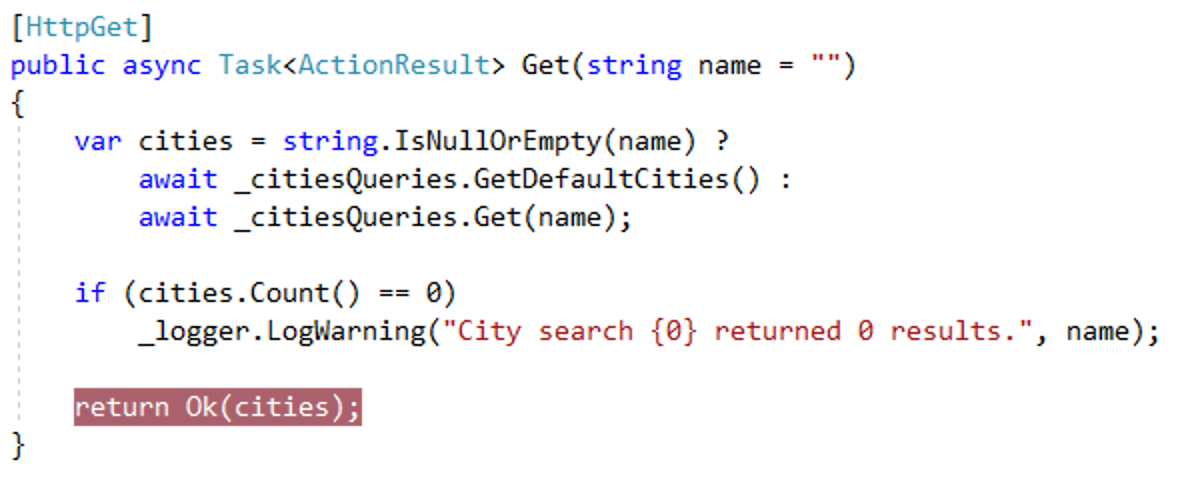
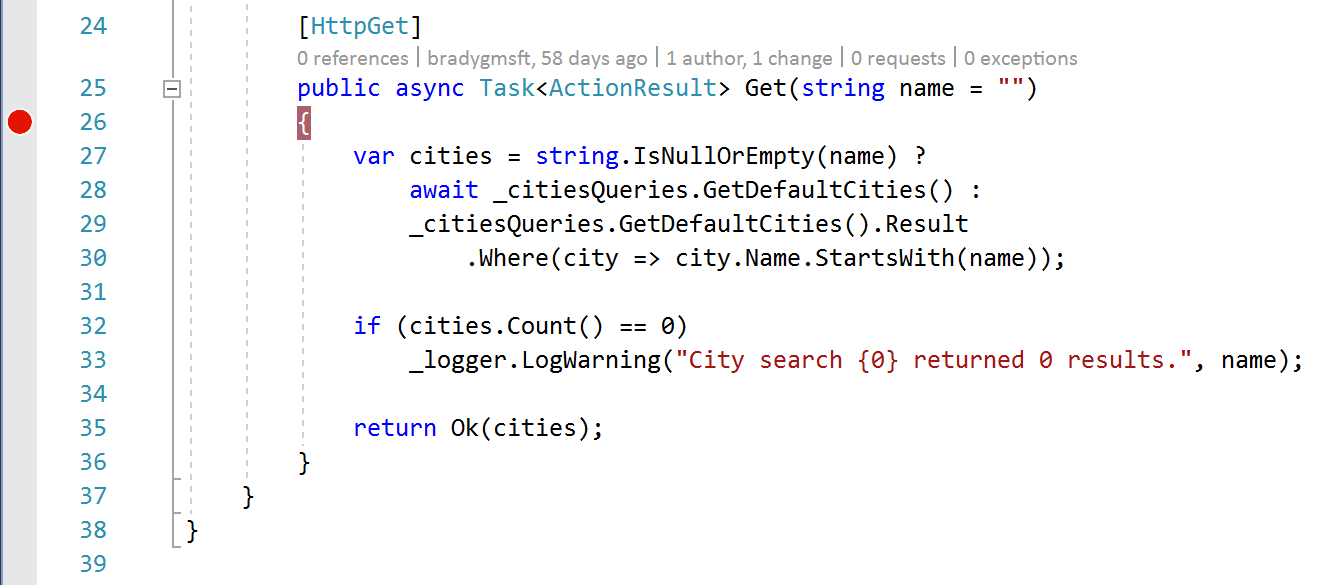
update to lab flow

diff --git a/README.md b/README.md
@@ -35,12 +35,15 @@ One of your teammates gave you a tip that the code that runs the city search fea
 
     ![Clone repository](clone.png)
 
-1. Double click on the cloned repository.
+1. Click **Solutions and Folders**.
 
-1. Under Solutions, double click on the `SmartHotel.Services.Hotels.sln` solution.
-    ![Hotels solution](hotels-solution.png)
-    
-### Fix the Hotels microservice
+1. Click on the `SmartHotel.Services.Hotels.sln` solution.
+
+### Set up debugging in Azure Dev Spaces
+
+You can see that SmartHotel360 is a large application. In order to track down this bug, you might think you'd need to set up all the databases, services, all of it, or at least get a copy of the AKS cluster on your machine or somewhere else so you won't impact your teammates, who might need to utilize the same databases and services for their own testing. This could take hours, or days, to set up and get working properly.
+
+Luckily, that's exactly what **Azure Dev Spaces** can do for you. Without setting up anything, you can select Dev Spaces to use when you want to debug your code. Then, a copy of your service is deployed into AKS, and commands will be routed to that copy of the service. That way, you can debug my code changes **in your own space** without impacting your teammates, all of whom may have code running in their own Dev Spaces.
 
 1. In Solution Explorer, Locate the **SmartHotel.Services.Hotels** project.
 
@@ -48,39 +51,7 @@ One of your teammates gave you a tip that the code that runs the city search fea
 
     ![CitiesContoller file](hotels-project.png)
 
-1. Now you can take a look at the `Get` method to see if you can tell what's wrong. Looks like the previous developer is making two calls to the `GetDefaultCities` method here. You can right click on the method name and then click **Go to Definition** to see what that method's doing.
-
-    ![Go to definition](13-get-method.png)
-
-1. Looks like the `GetDefaultCities` method returns a static list. The list doesn't contain Seattle, so that explains why it isn't showing up.
-
-    ![GetDefaultCities method code](get-default-cities.png)
-
-1. Scroll up to show the `Get` method. You can see that this is the one that actually uses Entity Framework to query the database. 
-    ![Get method code](get-method.png)
-
-1. Find the line of code in `CitiesController` using the `Where` method:
-
-    ```csharp
-    _citiesQuery.GetDefaultCities().Result
-        .Where(city => city.Name.StartsWith(name));
-    ```
-
-1. Change the code to match this:
-
-    ```csharp
-    await _citiesQuery.Get(name);
-    ```
-
-    ![Fixed Get method](15-fixed-code.png)
-
-### Set up debugging in Azure Dev Spaces
-
-Now that you've updated the code, you probably want to debug it to make sure it works. But you know that this is a large application. You might think you'd need to set up all the databases, services, all of it, or at least get a copy of the AKS cluster on your machine or somewhere else so you won't impact your teammates, who might need to utilize the same databases and services for their own testing. This could take hours, or days, to set up and get working properly.
-
-Luckily, that's exactly what **Azure Dev Spaces** can do for you. Without setting up anything, you can select Dev Spaces to use when I want to debug my code. Then, a copy of your service is deployed into AKS, and commands will be routed to that copy of the service. That way, you can debug my code changes **in your own space** without impacting your teammates, all of whom may have code running in their own Dev Spaces.
-
-1. Add a breakpoint on the `return Ok(cities);` line of code. 
+1. In the `Get` method, add a breakpoint on the curly bracket `{` at the start of the Get method. 
 
     ![Add breakpoint](22-breakpoint.png)
 
@@ -101,6 +72,8 @@ By default, your code will run in your team's dev space when you press F5, but y
 
 1. Click the **Change** button. 
 
+1. Sign in to Azure using the credentials provided by a lab proctor.
+
 1. Select the AKS Cluster you want to use. Please check with a lab proctor to identify which cluster to use.
 
 1. Select **Create New Space** from the Space menu. 
@@ -111,7 +84,9 @@ By default, your code will run in your team's dev space when you press F5, but y
     
     ![Name your space](19-new-space-name.png)
 
-1. Enable the **Launch browser** checkbox.
+1. Click OK.
+
+1. Back in the debug properties window, enable the **Launch browser** checkbox.
 
 1. Paste in the URL of the site (this should be the web site's public URL running in your cluster).
 
@@ -119,7 +94,7 @@ By default, your code will run in your team's dev space when you press F5, but y
 
     ![Prefixing site URL with space name](20-launch-url-with-space.png)
 
-### Run your updated code in Azure Dev Spaces
+### Run your code in Azure Dev Spaces
 
 1. Select **Azure Dev Spaces** from the debug menu. 
 
@@ -127,13 +102,53 @@ By default, your code will run in your team's dev space when you press F5, but y
 
 1. Hit F5 to start the debugger (or click the toolbar button in Visual Studio). 
     
-    ![Site running](23-search-during-debug.png)
-
     This first F5 will take some time. The app will be compiled, then built into a Docker image. That image will then be published up into AKS and initialized in a namespace named with your dev space name. Then, the browser will open to the public web site. The URL of the site will include a prefix, however, that will be passed through when REST API calls are made to the Hotels API. Since that prefix is coming through on the URL, Dev Spaces knows that means to route traffic to the Hotels container running in your personal dev space, where you've got the debugger attached.
 
 1. Once the site opens, scroll down and search for **Seattle** in the city search box. 
 
-1. In a moment, Visual Studio should obtain focus and the debugger should stop on the line with the breakpoint. You can step through the code to see that the search hit the database and found a result for "Seattle."
+    ![Site running](23-search-during-debug.png)
+
+1. In a moment, Visual Studio should obtain focus and the debugger should stop on the line with the breakpoint.
+
+### Fix the Hotels microservice
+
+1. Step through the code for the `Get` method to see if you can tell what's wrong. You'll see that the `cities.Count() == 0` condition is hit, even though we expect `Seattle` to be in the list of cities.
+
+1. There must be something wrong with the previous line, where there are two calls to the `GetDefaultCities` method. Stop debugging to take a closer look at this code.
+
+1. You can right click on the method name and then click **Go to Definition** to see what that method is doing.
+
+    ![Go to definition](13-get-method.png)
+
+1. Looks like the `GetDefaultCities` method returns a static list. The list doesn't contain Seattle, so that explains why it isn't showing up.
+
+    ![GetDefaultCities method code](get-default-cities.png)
+
+1. Scroll up to show the `Get` method. You can see that this is the one that actually uses Entity Framework to query the database. 
+    ![Get method code](get-method.png)
+
+1. Find the line of code in `CitiesController` using the `Where` method:
+
+    ```csharp
+    _citiesQueries.GetDefaultCities().Result
+        .Where(city => city.Name.StartsWith(name));
+    ```
+
+1. Change the code to match this:
+
+    ```csharp
+    await _citiesQueries.Get(name);
+    ```
+
+    ![Fixed Get method](15-fixed-code.png)
+
+1. Press **Ctrl-S** to save your changes.
+
+### Validate your fix
+
+1. Press F5 to start debugging again.
+
+1. When the debugger stops again, step through the code to see that the search hit the database and found a result for "Seattle."
     
     ![Search for Seattle](24-breakpoint-hit.png)
 
@@ -144,6 +159,8 @@ By default, your code will run in your team's dev space when you press F5, but y
 1. Go to the public URL for the team's version of the website, by removing the `<spacename>.s.` prefix from the URL. \(Or, ask your neighbor to do so.\) Then try searching for **Seattle**.
 
     Note that this time, the debugger does *not* break in when you search for a city name. That is because the team's version of the website hits the version of the Hotels microservice that is running in the team's dev space, while your debugger is hooked up to the version of the Hotels microservice that is running in your personal dev space.
+
+    Also note that the bug still exists in the team's version of the website. At this point, you would need to follow the team's procedures to check in your fix to source control and deploy the updated code to the team's dev space.
 
 Now, the search is working. In just minutes, you were able to find and fix the bug, as well as validate your fix.  
 
